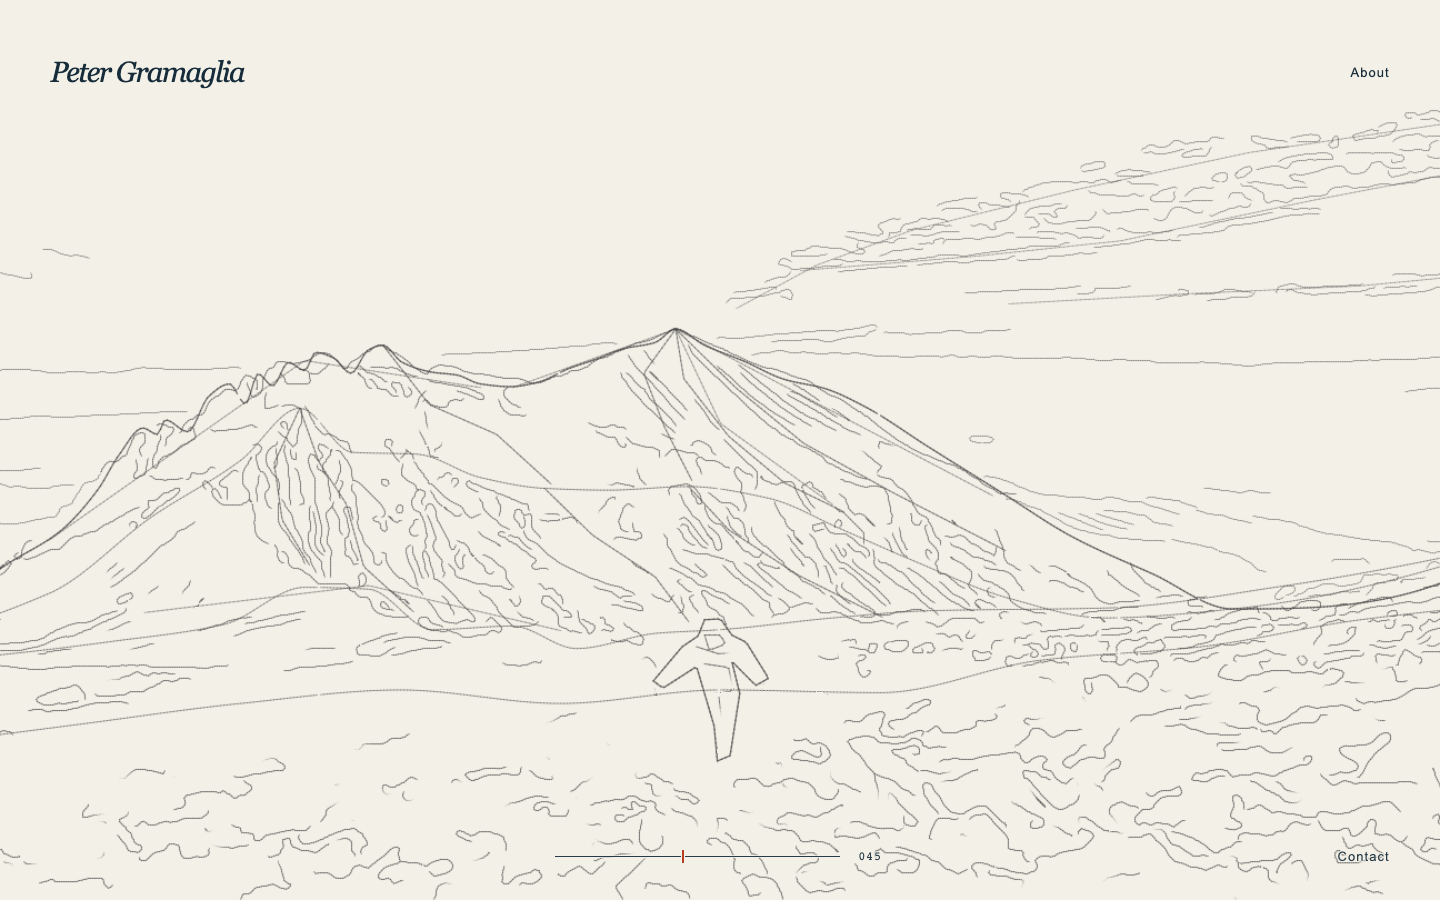
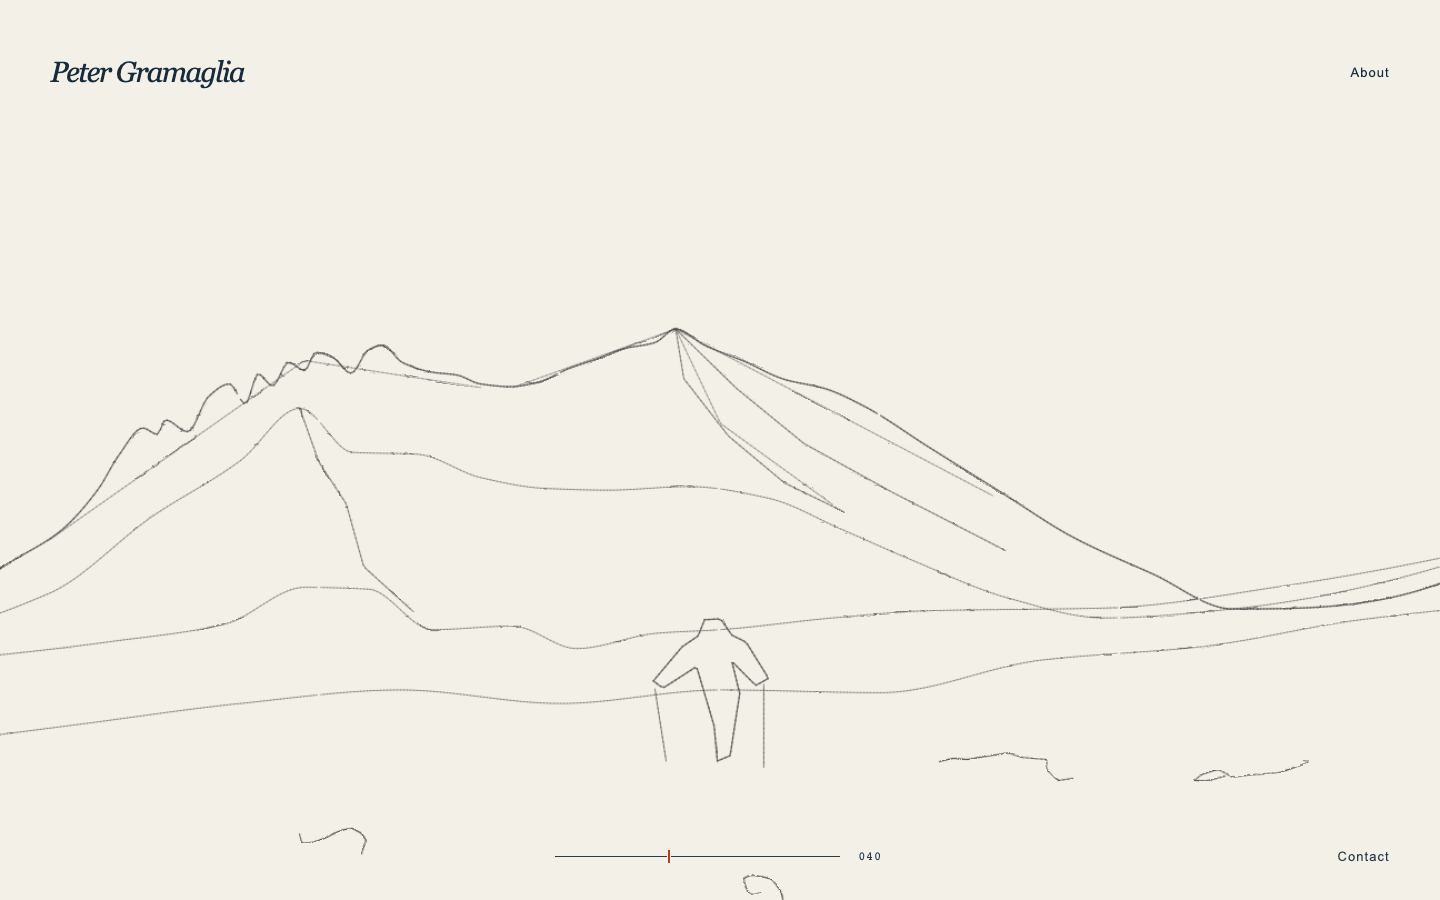
Establish mountain and human outlines before sketch detail

diff --git a/tests/browser/landscape.spec.js b/tests/browser/landscape.spec.js
@@ -85,7 +85,7 @@ test('no JavaScript exposes biography and drawing', async ({ browser }) => {
 
 test('capture drawing stages and mobile composition', async ({ page }, testInfo) => {
   await page.emulateMedia({ reducedMotion: 'reduce' }); await ready(page);
-  for (const p of [0, 150, 250, 300, 450, 500, 550, 600, 650, 700, 750, 800, 850, 900, 950, 990, 1000]) {
+  for (const p of [0, 150, 200, 250, 300, 400, 450, 500, 550, 600, 650, 700, 750, 800, 850, 900, 950, 990, 1000]) {
     await resolve(page, p);
     await page.locator('#resolve').blur();
     await page.screenshot({ path: testInfo.outputPath(`desktop-${p}.png`) });
@@ -94,6 +94,10 @@ test('capture drawing stages and mobile composition', async ({ page }, testInfo)
   await expect(page.locator('#field')).toHaveAttribute('data-variant', 'mobile');
   await resolve(page, 0); await page.locator('#resolve').blur();
   await page.screenshot({ path: testInfo.outputPath('mobile-drawing.png') });
+  for (const p of [200, 400, 600]) {
+    await resolve(page, p); await page.locator('#resolve').blur();
+    await page.screenshot({ path: testInfo.outputPath(`mobile-${p}.png`) });
+  }
   await resolve(page, 1000); await page.locator('#resolve').blur();
   await page.screenshot({ path: testInfo.outputPath('mobile-finished.png') });
 });
@@ -219,28 +223,47 @@ test('capture visible stroke growth and reversal', async ({ page }, testInfo) =>
   }
 });
 
-test('structural sketch keeps growing before the regional painting begins', async ({ page }) => {
-  await page.emulateMedia({ reducedMotion: 'reduce' }); await ready(page);
-  const stages = await page.evaluate(() => {
-    const input = document.querySelector('#resolve'), canvas = document.querySelector('canvas');
-    const gl = canvas.getContext('webgl');
-    return [150, 300, 450].map((value) => {
-      input.value = String(value); input.dispatchEvent(new Event('input', { bubbles: true }));
-      const pixels = new Uint8Array(canvas.width * canvas.height * 4);
-      gl.readPixels(0, 0, canvas.width, canvas.height, gl.RGBA, gl.UNSIGNED_BYTE, pixels);
-      let ink = 0, chroma = 0;
-      for (let i = 0; i < pixels.length; i += 16) {
-        const rgb = [pixels[i], pixels[i + 1], pixels[i + 2]];
-        ink += Math.max(0, 238 - (rgb[0] * .2126 + rgb[1] * .7152 + rgb[2] * .0722));
-        // Ivory's own warm tint is not pigment.
-        chroma += Math.max(0, Math.max(...rgb) - Math.min(...rgb) - 15);
-      }
-      return { value, ink, chroma };
-    });
-  });
-  expect(stages[1].ink).toBeGreaterThan(stages[0].ink * 1.2);
-  expect(stages[2].ink).toBeGreaterThan(stages[1].ink * 1.15);
-  expect(stages[0].chroma + stages[1].chroma + stages[2].chroma).toBe(0);
+test('mountain framework precedes the figure and foreground, then detail and color', async ({ page }) => {
+  await page.emulateMedia({ reducedMotion: 'reduce' });
+  for (const [width, height, regions] of [
+    [1440, 810, { mountain: [0, .32, 1, .67], figure: [.455, .715, .54, .86], foreground: [0, .86, 1, .99], clouds: [.55, .1, 1, .3] }],
+    [900, 1200, { mountain: [0, .30, 1, .625], figure: [.40, .67, .58, .80], foreground: [0, .82, 1, .99], clouds: [.5, .1, 1, .28] }],
+  ]) {
+    await page.setViewportSize({ width, height }); await ready(page);
+    const stages = await page.evaluate((regions) => {
+      const input = document.querySelector('#resolve'), canvas = document.querySelector('canvas');
+      const gl = canvas.getContext('webgl');
+      return Object.fromEntries([200, 400, 450, 600].map((value) => {
+        input.value = String(value); input.dispatchEvent(new Event('input', { bubbles: true }));
+        const pixels = new Uint8Array(canvas.width * canvas.height * 4);
+        gl.readPixels(0, 0, canvas.width, canvas.height, gl.RGBA, gl.UNSIGNED_BYTE, pixels);
+        let chroma = 0;
+        for (let i = 0; i < pixels.length; i += 16) {
+          chroma += Math.max(0, Math.max(pixels[i], pixels[i + 1], pixels[i + 2]) - Math.min(pixels[i], pixels[i + 1], pixels[i + 2]) - 15);
+        }
+        const ink = Object.fromEntries(Object.entries(regions).map(([name, [x0, y0, x1, y1]]) => {
+          let mass = 0;
+          for (let y = Math.floor(y0 * canvas.height); y < y1 * canvas.height; y += 2) {
+            for (let x = Math.floor(x0 * canvas.width); x < x1 * canvas.width; x += 2) {
+              const i = ((canvas.height - y - 1) * canvas.width + x) * 4;
+              mass += Math.max(0, 238 - (pixels[i] * .2126 + pixels[i + 1] * .7152 + pixels[i + 2] * .0722));
+            }
+          }
+          return [name, mass];
+        }));
+        return [value, { ...ink, chroma }];
+      }));
+    }, regions);
+    expect(stages[200].mountain).toBeGreaterThan(100);
+    expect(stages[200].figure).toBe(0);
+    expect(stages[200].foreground).toBe(0);
+    expect(stages[400].figure).toBeGreaterThan(100);
+    expect(stages[400].foreground).toBeGreaterThan(100);
+    expect(stages[400].clouds).toBe(0);
+    expect(stages[450].mountain).toBeGreaterThan(stages[400].mountain);
+    expect(stages[200].chroma + stages[400].chroma + stages[450].chroma).toBe(0);
+    expect(stages[600].chroma).toBeGreaterThan(0);
+  }
 });
 
 test('terrain develops before clouds and the blue sky completes last', async ({ page }, testInfo) => {

diff --git a/scripts/prepare-strokes.py b/scripts/prepare-strokes.py
@@ -25,6 +25,7 @@ class Plate:
         self.alpha=np.zeros((h,w),np.float32)
         self.time=np.ones((h,w),np.float32)
         self.schedule=None
+        self.preserve_earliest=False
     def path(self,points,width,color,start,span,opacity=1,taper=False):
         p=np.asarray(points,dtype=float)
         if len(p)<2:return
@@ -56,7 +57,7 @@ class Plate:
             # Store threshold even at antialiased edges: empty texels must not
             # pull thin stroke edges toward the final frame when filtered.
             take=(cov>.02)&((cov>=olda*.65)|(olda<.1))
-            time[take]=threshold[take]
+            time[take]=np.minimum(time[take],threshold[take]) if self.preserve_earliest else threshold[take]
             olda[:]=newa
     def save(self,dest,index):
         covered=self.alpha>.02
@@ -90,6 +91,7 @@ def make(name):
     source=np.clip(lum[:,:,None]+(source-lum[:,:,None])*1.2,0,255)
     source=np.clip(source*.96+PAPER*.04,0,255)
     plates=[Plate(w,h) for _ in range(3)]
+    plates[0].preserve_earliest=True
     xs=np.arange(w)/w
     skyline=geo.curve(g['skyline'],xs)*h
     bounds=[skyline]+[geo.curve(r,xs)*h for r in g['ridges']]
@@ -107,23 +109,24 @@ def make(name):
     # Subsequent paths add actual geographic structure over the first half.
     rough = {
       'desktop': [[(.08,.60),(.24,.40),(.35,.43)],[(.37,.43),(.472,.365),(.67,.55)],
-                  [(.472,.365),(.50,.47),(.57,.56)],[(.14,.68),(.28,.65),(.40,.70)]],
-      'mobile': [[(.19,.39),(.439,.332),(.67,.42)],[(.439,.332),(.46,.42),(.58,.48)],
-                 [(.03,.48),(.23,.55),(.38,.54)]]
+                  [(.472,.365),(.50,.47),(.57,.56)]],
+      'mobile': [[(.19,.39),(.439,.332),(.67,.42)],[(.439,.332),(.46,.42),(.58,.48)]]
     }
     for line in rough[name]:
         plates[0].path(subdivide(points(line)),.83,INK,-.09,.045,.40)
-    # Draw each refined ridge in sections, so the first fifteen percent is
-    # visibly an unfinished outline rather than a complete landscape.
+    # First establish only the skyline and principal mountain ridge. The
+    # nearer slope/foreground boundaries join the human in the second phase.
     for i,line in enumerate(bounds[:-1]):
         sections=5 if i==0 else 4
         for section,idx in enumerate(np.array_split(np.arange(0,w,3),sections)):
             p=np.column_stack((idx,line[idx]))
-            start=(.065+section*.025) if i==0 else (.16+i*.035+section*.018)
-            plates[0].path(p,1.05 if i==0 else .72,INK,start,.065,.76 if i==0 else .48)
+            start=(.035+section*.021) if i==0 else (.08+section*.021 if i==1 else .25+(i-2)*.025+section*.013)
+            plates[0].path(p,1.05 if i==0 else .72,INK,start,.055,.76 if i==0 else .48)
     for i,spur in enumerate(g['spurs']):
         p=subdivide(points(spur))
-        plates[0].path(p,.85,INK,.10+i*.016,.12,.58)
+        major=[0,2,3]
+        start=.075+major.index(i)*.023 if i in major else .435+i*.014
+        plates[0].path(p,.85,INK,start,.075,.58)
     # Cloud gestures are open contours following the prominent cloud bank.
     clouds = {
       'desktop': [[(.51,.342),(.56,.294),(.62,.255),(.72,.211),(.83,.169),(.96,.135)],
@@ -134,7 +137,7 @@ def make(name):
                  [(.50,.337),(.61,.336),(.72,.326),(.82,.327),(.96,.315)]]
     }
     for i,line in enumerate(clouds[name]):
-        plates[0].path(subdivide(points(line)),.68,INK,.21+i*.035,.11,.38)
+        plates[0].path(subdivide(points(line)),.68,INK,.625+i*.028,.07,.38)
     # Trace selected long source edges as individual connected pencil paths.
     # Nonmaximum suppression selects contours; minimum arc length and a cap
     # per region discard photographic grain. These are new ridge/rock/cloud
@@ -192,17 +195,31 @@ def make(name):
         cx,cy=p.mean(axis=0)/[w,h]
         if bx0<cx<bx1 and by0<cy<by1:continue
         rank=counts[region]/limits[region];counts[region]+=1
-        # Broad shapes arrive first; small facets follow across .3--.6.
-        if region=='cloud':start=.23+rank*.11;span=.07;opacity=.38
-        elif region=='mountain':start=.20+rank*.27;span=.075;opacity=.50
-        else:start=.32+rank*.20;span=.075;opacity=.54
+        # Fine contours follow the complete mountain/human/foreground skeleton.
+        # Background sketching waits until the later distant-land/cloud work.
+        if region=='cloud':start=.68+rank*.10;span=.055;opacity=.38
+        elif region=='mountain':start=.435+rank*.18;span=.055;opacity=.50
+        else:start=.445+rank*.23;span=.055;opacity=.54
         # Reduce pixel-scale stair stepping without erasing a rock's corners.
         p=gaussian_filter(p,(.65,0))[::2]
         plates[0].path(p,.72 if region=='cloud' else .82,INK,start,span,opacity)
-    # The human figure is discovered after the main landforms. Silhouette,
-    # hood, pack, bent arms, legs and walking poles have independent timings.
+    # A few long source rock edges define foreground scale during phase two;
+    # leave the dense small-rock contour map for the detail phase above.
+    foreground_edges=[]
+    for lo,hi in [(0,.28),(.28,.53),(.53,.78),(.78,1.01)]:
+        candidates=[entry for entry in paths if entry[1]=='rock'
+                    and lo<=entry[2][:,0].mean()/w<hi
+                    and entry[2][:,1].mean()/h>.84]
+        if not candidates:continue
+        _,_,p,_=max(candidates,key=lambda entry:entry[0])
+        ids=np.linspace(0,len(p)-1,min(12,len(p))).astype(int)
+        foreground_edges.append(p[ids])
+    for i,p in enumerate(foreground_edges):
+        plates[0].path(subdivide(p),.95,INK,.265+i*.02,.065,.62)
+    # Phase two establishes the rough full human silhouette and both poles;
+    # facial, clothing and inner-leg detail waits for the detail phase.
     p=subdivide(points(g['person']+[g['person'][0]]))
-    plates[0].path(p,1.05,INK,.31,.12,.78)
+    plates[0].path(p,1.05,INK,.235,.095,.78)
     person_details={
       'desktop': [[(.49,.705),(.5,.705),(.503,.715),(.493,.722),(.49,.705)],
                    [(.485,.718),(.499,.726),(.509,.724)],[(.49,.737),(.505,.741),(.508,.767),(.494,.771)],
@@ -212,7 +229,8 @@ def make(name):
                   [(.5,.723),(.505,.75),(.499,.777)],[(.415,.705),(.438,.794)],[(.563,.707),(.56,.787)]]
     }
     for i,line in enumerate(person_details[name]):
-        plates[0].path(subdivide(points(line)),.8,INK,.38+i*.019,.07,.66)
+        start=.27+(i-4)*.025 if i>=4 else .435+i*.018
+        plates[0].path(subdivide(points(line)),.8,INK,start,.065 if i>=4 else .05,.66)
     print(name,'structural paths',counts,flush=True)
     # Keep the approved distant-land orientation field independent of the
     # closer, finer photo structure used for the new terrain brushes.

diff --git a/docs/review-notes.md b/docs/review-notes.md
@@ -84,3 +84,11 @@ Independent Astra high rendering, accessibility, and visual reviewers approved t
 Removed the edition, field-study label, and visible sketch/color hint. The interface now uses a plain dark italic serif name at 24–29px, unboxed About/Contact links, and a thin slider with its number. Narrow ivory glyph halos support small text on the artwork. Native keyboard controls, 44px targets, focus indicators, screen-reader instructions, and responsive placement remain. Review included mobile, 320px, short, and ultrawide layouts.
 
 Validation: 10 Node tests and 18 local Chrome browser tests pass. New tests verify independent local stroke maturity and measure actual GPU progression in mountain, figure, foreground, distant, cloud, and sky regions. The 15/30/45-percent pencil-growth checks and endpoint/fallback comparison still pass. Updated captures include 55–99-percent regional checkpoints and colored-stroke growth/reversal. The final preview capture was rerun with the range unfocused for presentation; focus behavior is tested separately. Browser/device coverage limits remain as stated above.
+
+## Mountain framework, human and foreground, then detail
+
+Reordered the pencil stage to follow the requested drawing hierarchy. The opening through roughly 22 percent contains only the skyline, principal mountain ridge, and selected major spurs. The next stage establishes the human silhouette, poles, near-ground boundaries, and four sparse contours taken from large foreground rock edges. Dense mountain/rock contours and inner figure detail begin after roughly 42 percent; cloud sketching waits for the later background work. Pencil-only earliest-arrival preservation keeps later crossings from delaying established structural lines.
+
+Independent Astra high visual and rendering reviews approved both desktop and mobile. The audit found no untimed covered pencil pixels and confirmed that all colored plates, colored timing maps, and finished paintings remain byte-identical. No renderer, interface, or later color-sequence changes were needed.
+
+Validation: 10 Node tests and 18 local Chrome browser tests pass. The revised GPU regression checks mountain-only structure at 20 percent, rough human/foreground outlines and an empty cloud bank at 40 percent, then detail growth and pigment. It reproduced the previous premature cloud detail before the fix and passes with the revised assets in both compositions. Existing regional painting, reversal, fallback, and interaction checks still pass. Updated previews explicitly show the 20/40/60-percent hierarchy.

diff --git a/README.md b/README.md
@@ -44,7 +44,7 @@ The [stroke revision](docs/stroke-revision.md) describes the current drawing beh
 
 There are two aspect-specific drawing sets. The desktop composition uses Peter's approved AI-expanded panorama, with the left ridge corrected against a second reference photograph. The mobile drawing is based on the original portrait photograph. Generated edges are disclosed in About. Contour-like marks are an artistic drawing, not elevation data. No coordinates, EXIF, or camera/location metadata are retained in the published derivatives.
 
-At every slider position, the artwork consists of drawn strokes on ivory. Each stroke has a per-pixel arrival time that increases along its path. The first half develops a detailed sketch. Important mountain features, the climber, and foreground rocks are painted first; supporting terrain, distant mountains, and clouds follow; blue sky finishes last. Opacity and pigment mature relative to each stroke's own arrival, so already painted regions stay complete while later regions remain sketched. At full progress the canvas remains a colored drawing. No source photograph is loaded at runtime. The static fallback is the finished drawing, composited from the same delivered stroke plates. Unboxed typography uses a narrow ivory glyph halo for contrast; the visible control contains only the slider and its number. No continuous animation runs after the control settles; reduced motion removes easing while preserving direct control.
+At every slider position, the artwork consists of drawn strokes on ivory. Each stroke has a per-pixel arrival time that increases along its path. Major peaks and ridges appear first, followed by the rough human silhouette and foreground boundaries. Only then do details and colored brushstrokes fill the scene. Important mountain features, the climber, and foreground rocks are painted first; supporting terrain, distant mountains, and clouds follow; blue sky finishes last. Opacity and pigment mature relative to each stroke's own arrival, so already painted regions stay complete while later regions remain sketched. At full progress the canvas remains a colored drawing. No source photograph is loaded at runtime. The static fallback is the finished drawing, composited from the same delivered stroke plates. Unboxed typography uses a narrow ivory glyph halo for contrast; the visible control contains only the slider and its number. No continuous animation runs after the control settles; reduced motion removes easing while preserving direct control.
 
 ### Regenerating assets
 

diff --git a/docs/stroke-revision.md b/docs/stroke-revision.md
@@ -53,3 +53,9 @@ This revision replaces the earlier global opacity/saturation ramps. Broad stroke
 The shader uses progress minus arrival to mature each colored mark over a short interval. The pencil stays visible in areas waiting for paint, followed by a brief cleanup near completion. Timing leaves room for late marks to mature before the endpoint, and the finished fallback stays identical to the approved painting. Tests measure actual GPU progress in mountain, figure, foreground, distant-terrain, cloud, and sky regions.
 
 The interface contains an unboxed italic serif name, About and Contact text links, and a thin slider with its number. The edition, field-study label, and visible sketch/color hint are removed. A narrow ivory halo follows the text glyphs for steady contrast without a scene overlay. Native keyboard controls, 44px interaction targets, focus indicators, and screen-reader instructions remain.
+
+## Drawing hierarchy before detail
+
+The opening sketch now has three distinct phases: major mountain peaks and ridges first, then the rough human silhouette and defining foreground edges, then finer details and colored strokes. Sparse structural lines establish the scene before source-traced rock, mountain, figure, and cloud details appear. Cloud contours wait for the later background work rather than filling the early sky.
+
+Only the pencil plate and its timing change for this refinement. The colored stroke geometry, palette, regional paint order, finished painting, and minimal interface remain unchanged. GPU checks in both compositions require mountain lines before the human/foreground, rough scene outlines before cloud detail, and detail/pigment growth afterward.
